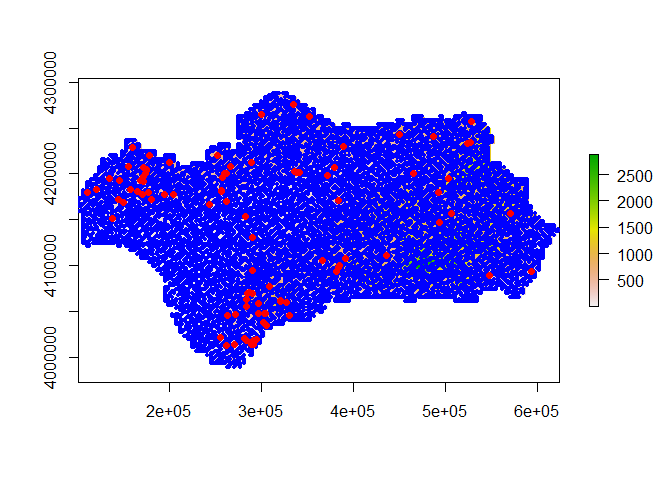
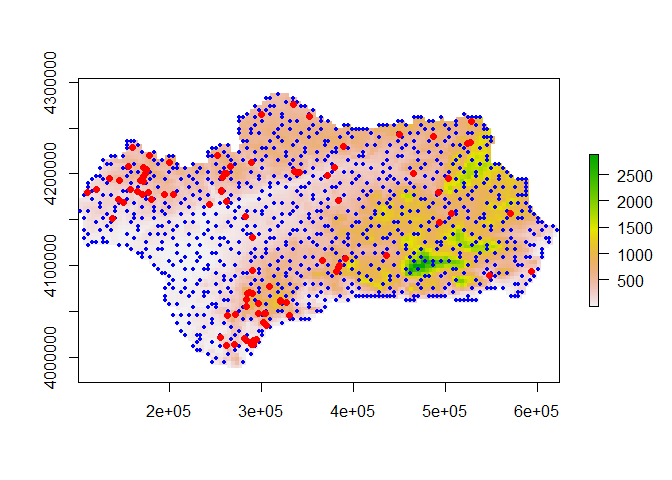
update readme

Changed region(s): [[0.0938, 0.1875, 0.8438, 0.7812]]

diff --git a/README.md b/README.md
@@ -70,7 +70,7 @@ For a laugh, let's generate some quasirandom background points and plot them aga
 ``` r
 library(qrbp)
 POdata <- species[species$Occurrence == 1,]
-bkpts <- generate_background_points(number_of_background_points = 10000,
+bkpts <- generate_background_points(number_of_background_points = 1000,
                                     known_sites = POdata@coords,
                                     study_area = preds[[1]],
                                     model_covariates = preds,
